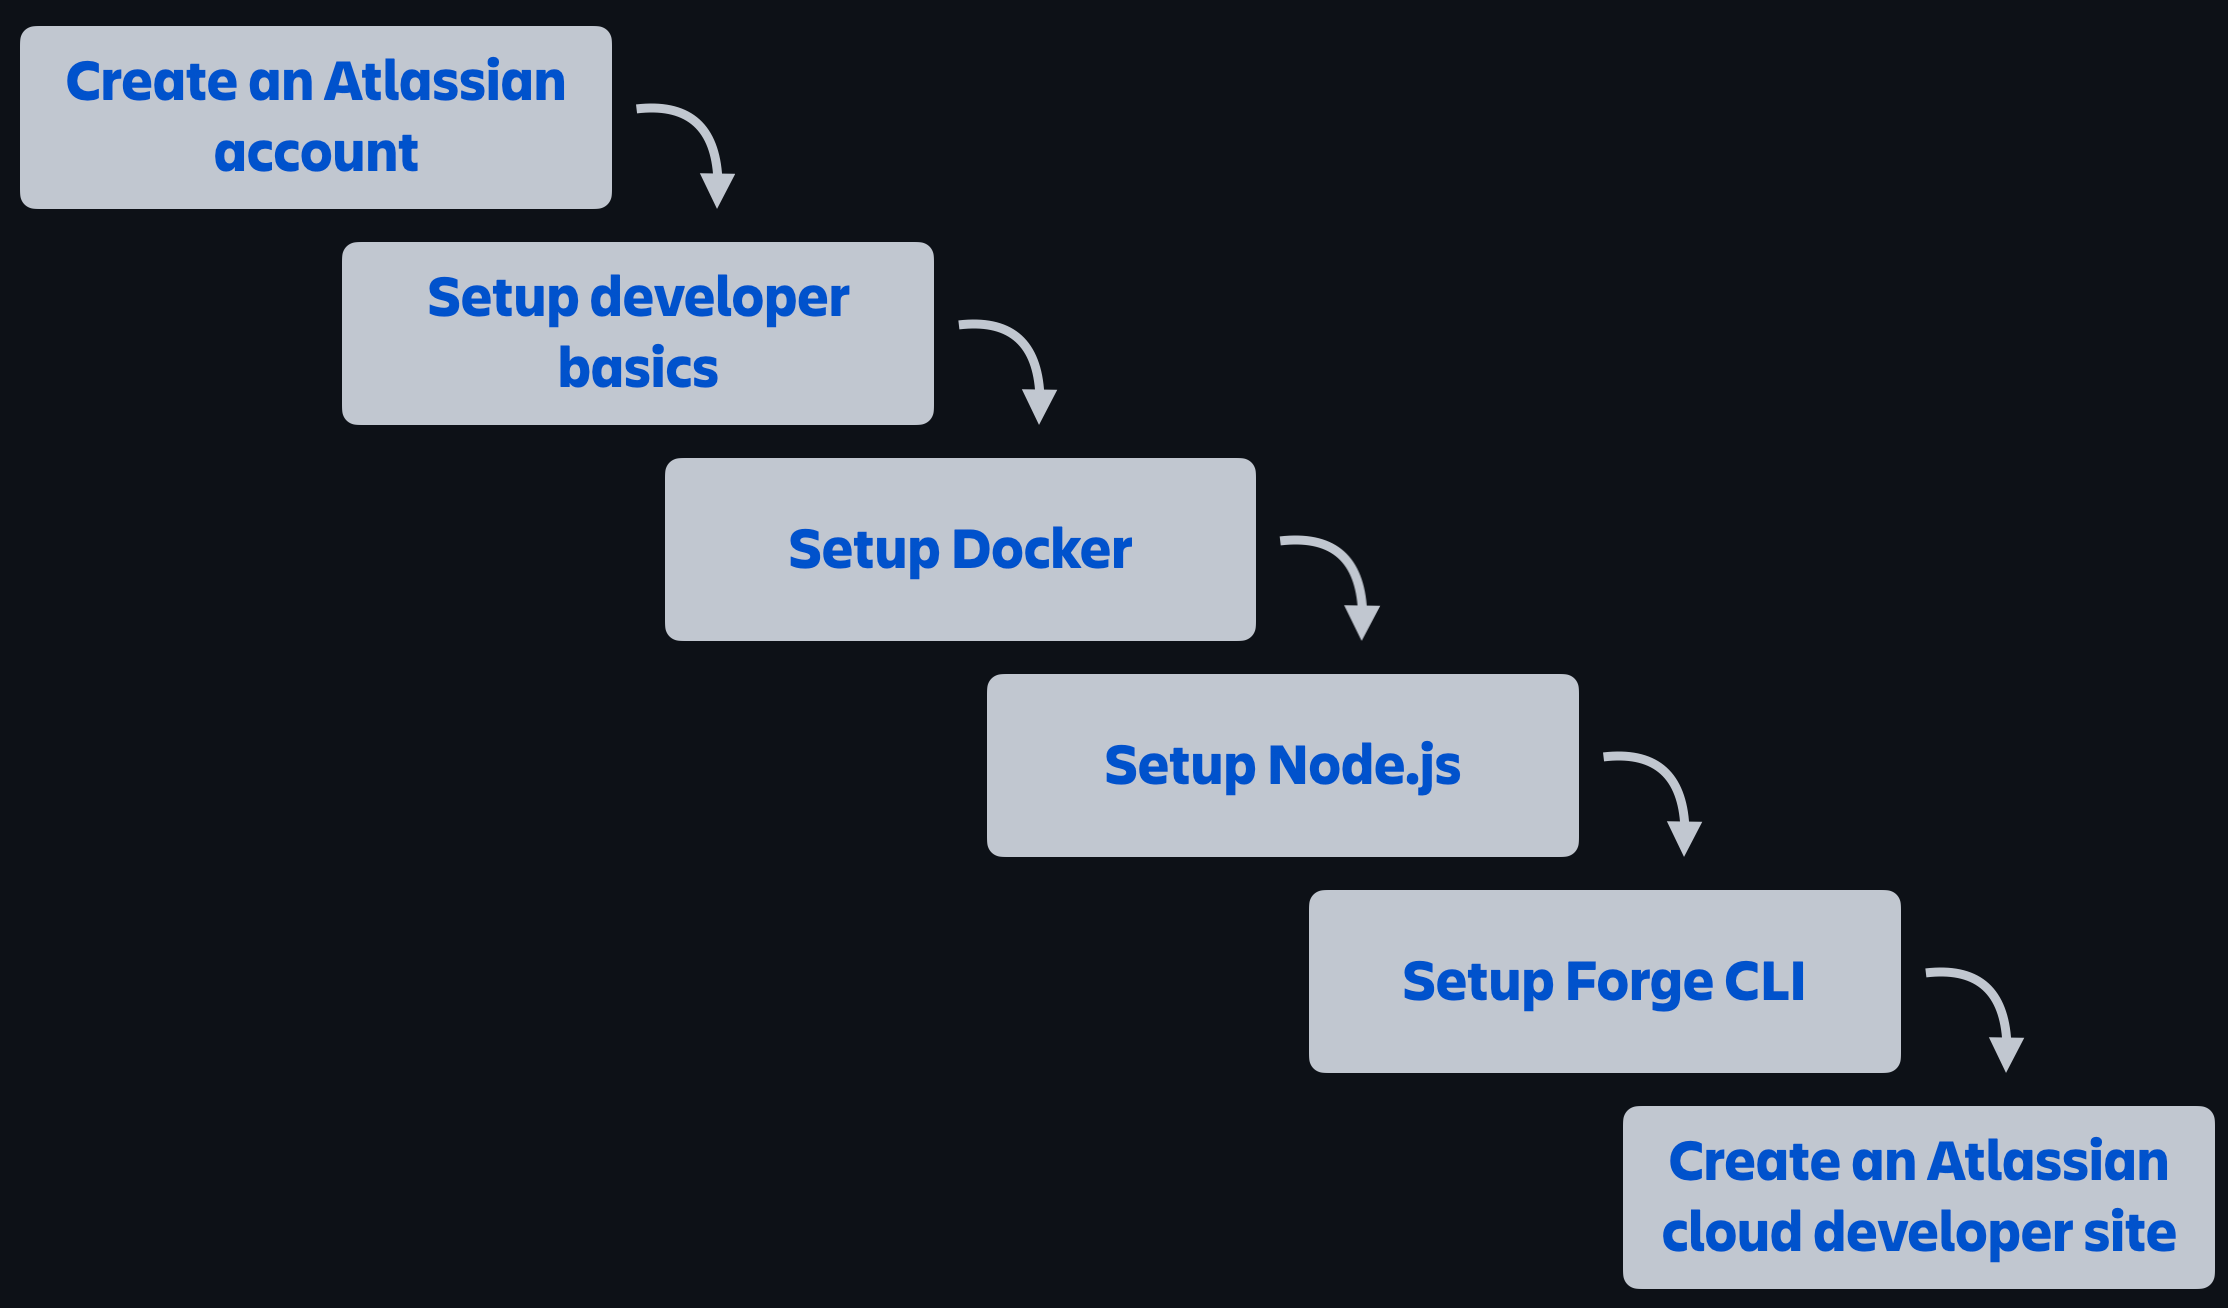
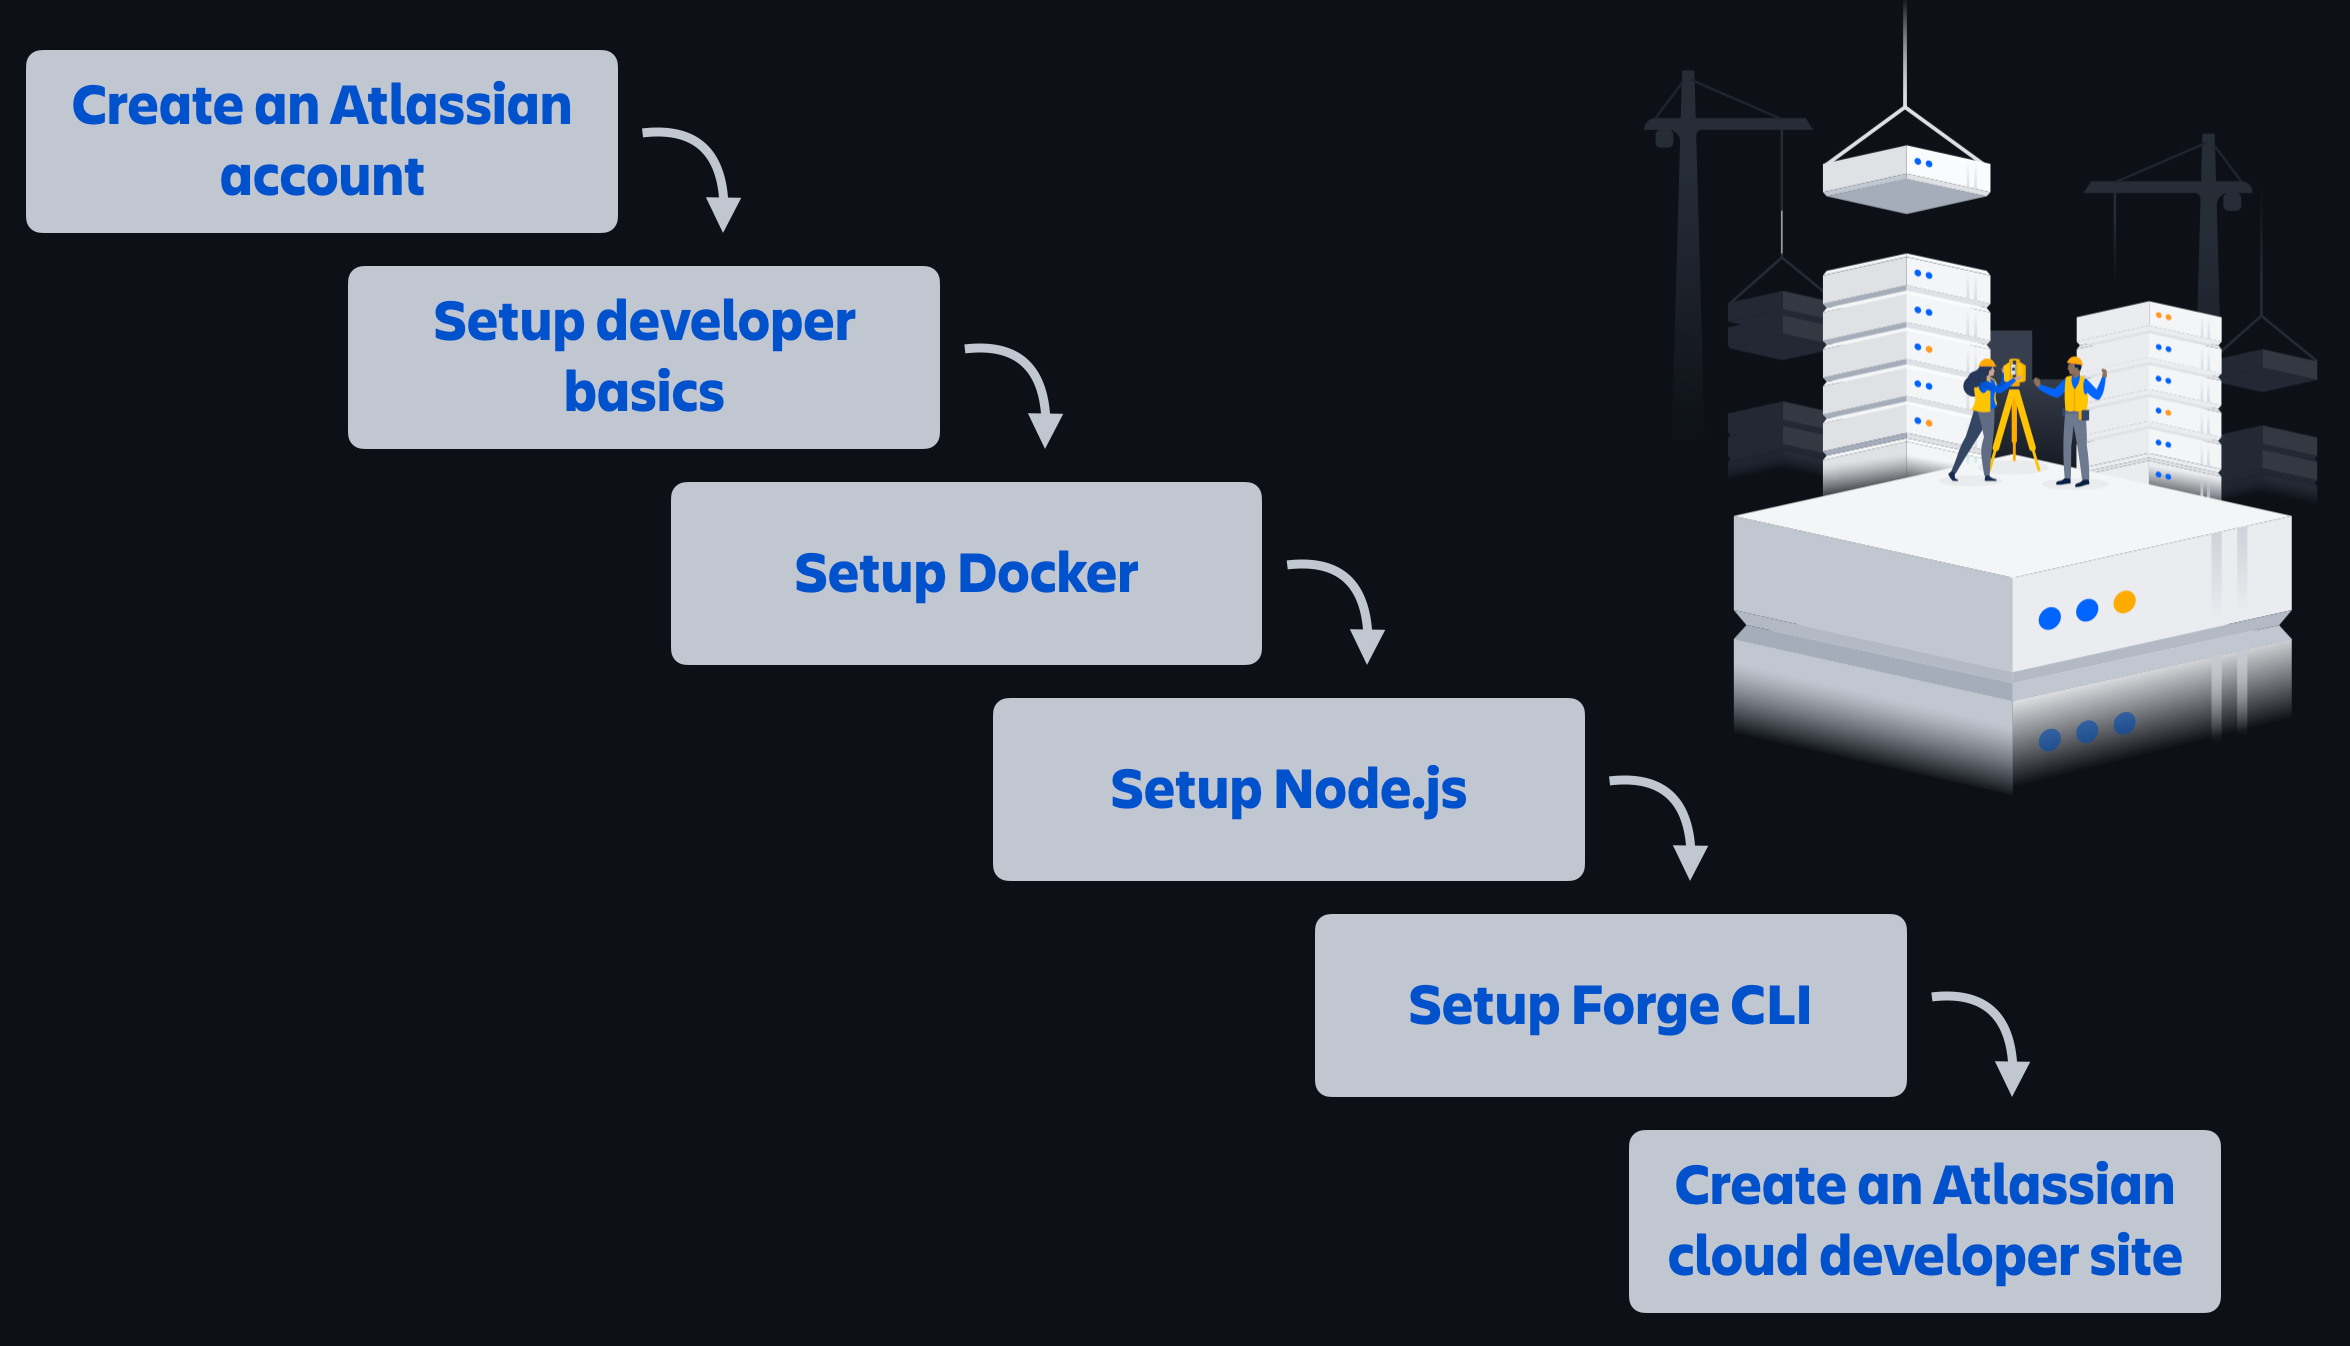
Improvements

Changed region(s): [[0.0, 0.0, 0.991, 0.6728], [0.5575, 0.6728, 1.0, 1.0], [0.6813, 0.0612, 0.8671, 0.1835]]

diff --git a/README.md b/README.md
@@ -4,11 +4,16 @@
 
 This workshop will help you get started with Forge so you can customise and extend Atlassian products either for your own use, or for selling in the [Atlassian Marketplace](marketplace.atlassian.com).
 
+![setup visualisation](/images/overview.png | width=300)
+
+
 ## Setup
+
+<img align="right" width="100" src="/images/setup-steps.png">
 
 During this section, you will be performing the following setup steps:
 
-![setup visualisation](/images/setup-steps.png)
+![setup visualisation](/images/setup-steps.png | width=300)
 
 
 ### Create an Atlassian account
@@ -45,6 +50,16 @@ Creating an Atlassian cloud developer site allows you to install and test your a
 
 1. Go to http://go.atlassian.com/cloud-dev and create a site using the email address associated with your Atlassian account.
 2. Once your site is ready, log in and complete the setup wizard.
+
+
+## Jira Hello World
+
+Now that you have a Forge development environment, it's time to create your first app. 
+
+1. In a terminal or shell, change to a directory that you want your Forge app to be located under.
+2. Run `forge create`.
+
+![forge create command](/images/hw-forge-create.png | width=500)
 
 
 
